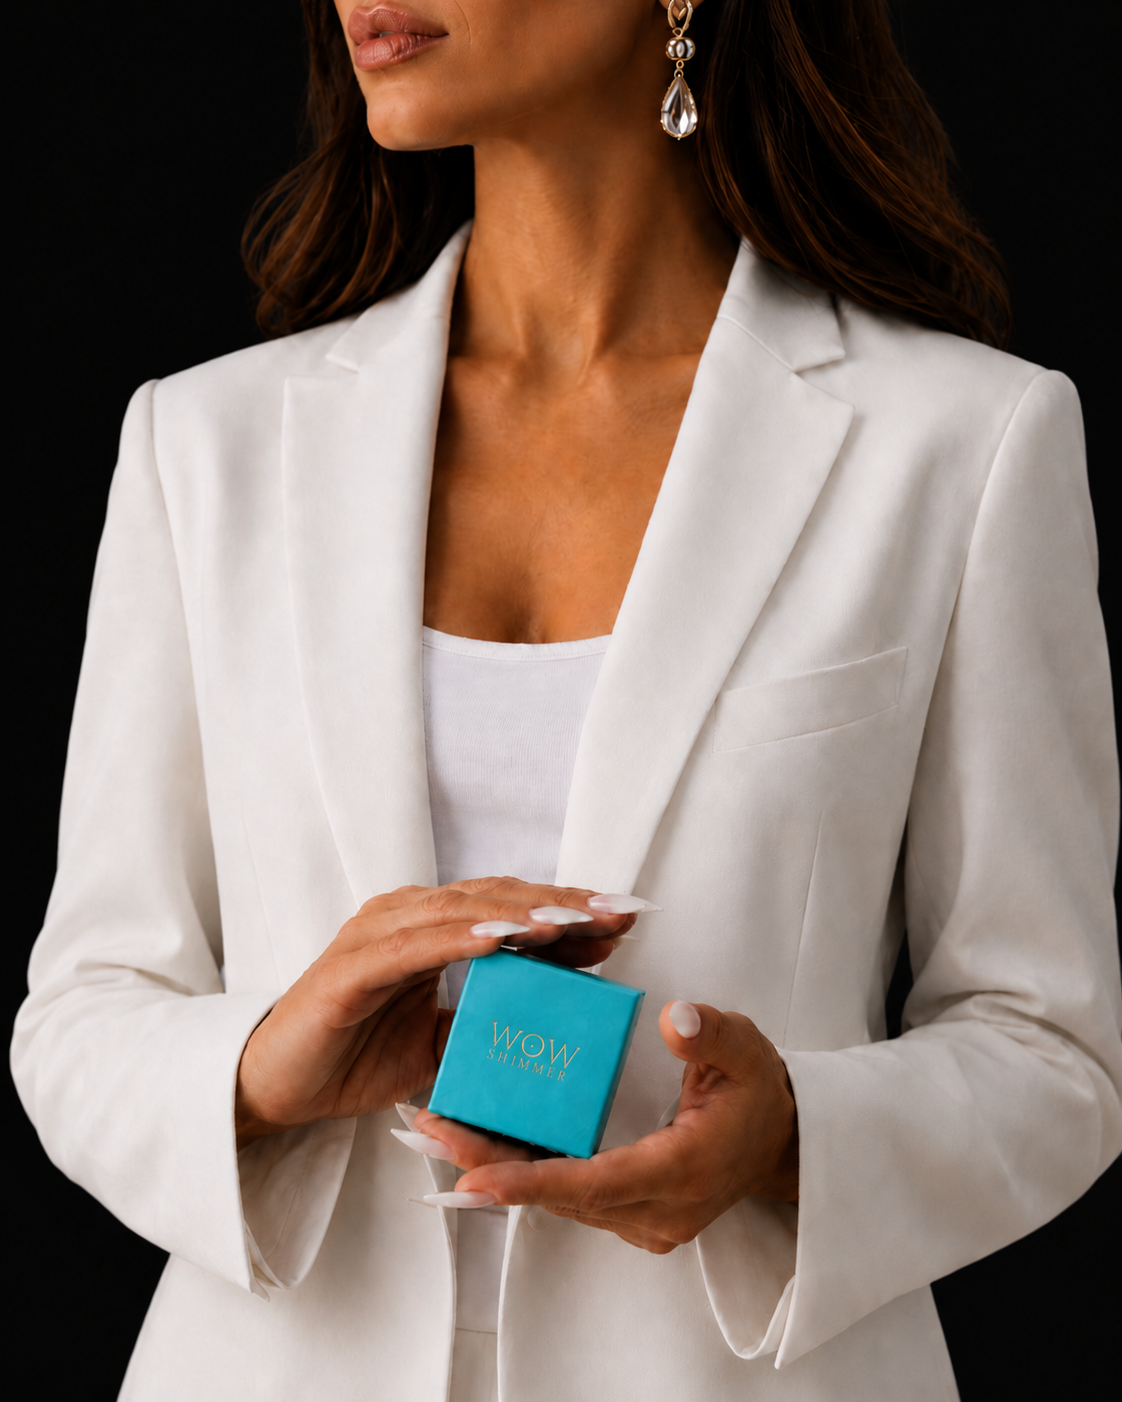
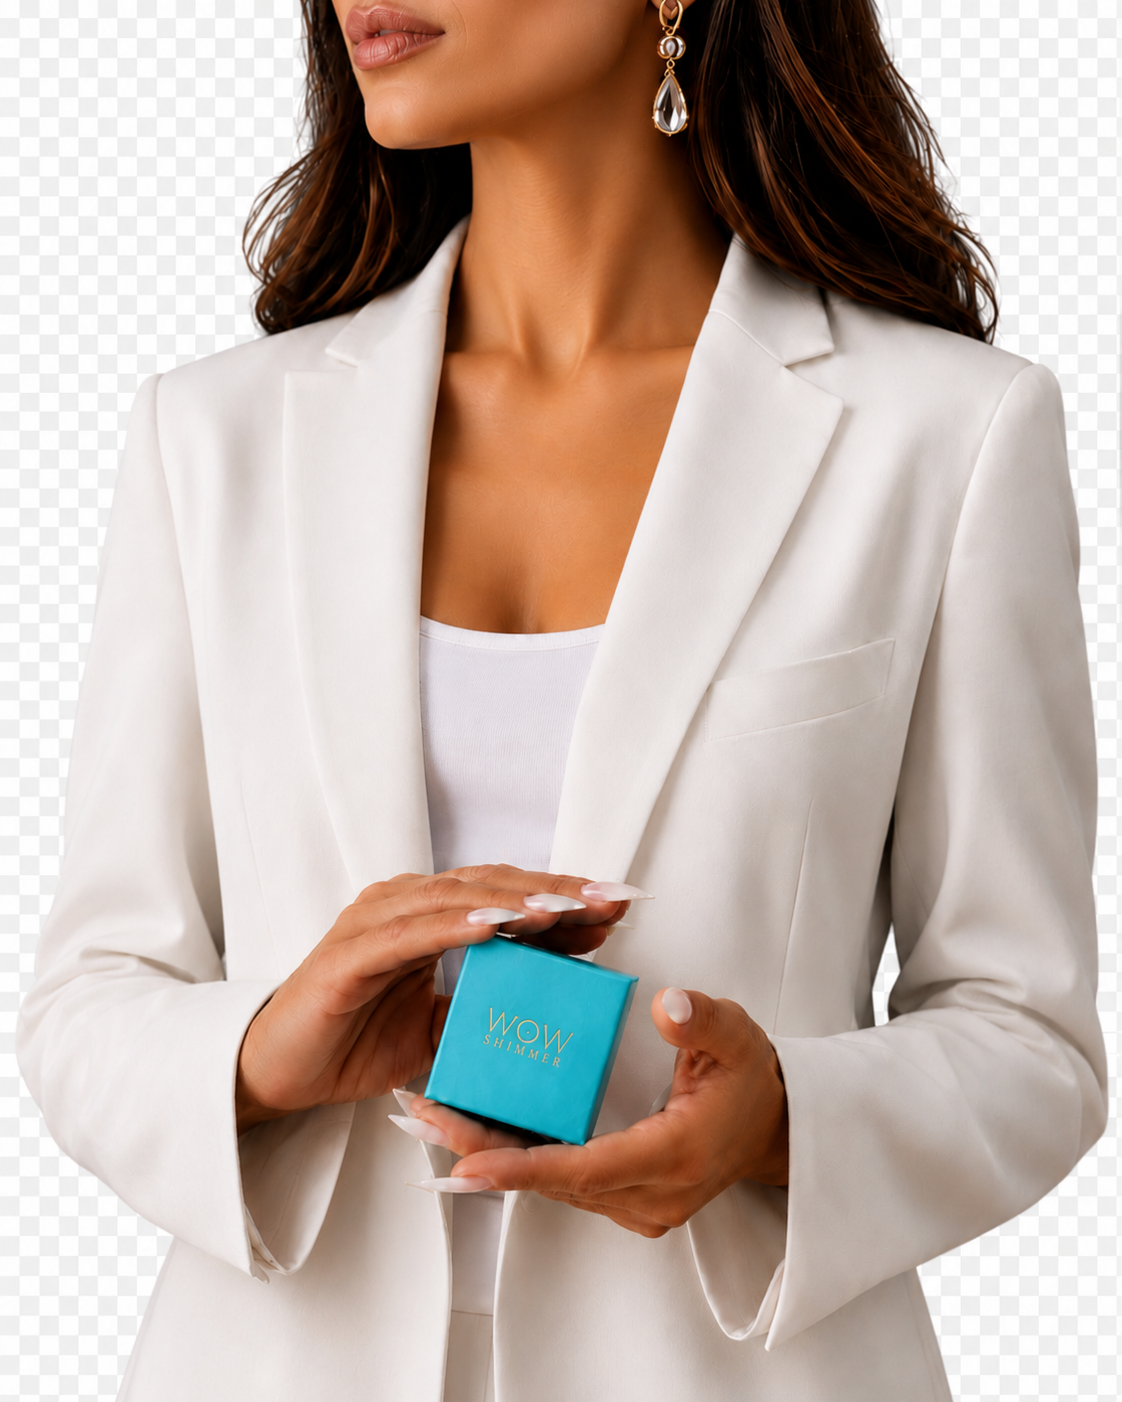
design(a): about — switch to transparent cutout photo, drop card overlap & frame

diff --git a/design/a/index.html b/design/a/index.html
@@ -757,12 +757,12 @@
   .about-photo {
     width: 100%;
     height: 100%;
-    min-height: 580px;
+    min-height: 620px;
     background-image: url('../img/obrende.png');
-    background-size: cover;
-    background-position: center;
-    background-color: #131313;
-    border-radius: 0 0 0 320px; /* скругление слева внизу — дуга под лого */
+    background-size: contain;            /* фигура полностью видна, без обрезки */
+    background-position: center bottom;
+    background-repeat: no-repeat;
+    background-color: transparent;       /* фон прозрачный — секция просвечивает */
   }
   .about-monogram {
     position: absolute;
@@ -784,23 +784,21 @@
     backdrop-filter: blur(4px);
   }
 
-  /* Текстовая тёмная плашка — лёгкий наезд на фото, без блюра */
+  /* Текстовая тёмная плашка — без наезда, фото-вырез сам себя кадрирует */
   .about-text {
     position: relative;
     z-index: 3;
     display: flex;
-    margin-left: -50px;              /* лёгкий наезд на фото */
   }
   .about-card {
     position: relative;
     width: 100%;
-    background: rgba(20, 20, 20, 0.86);
+    background: var(--ink-2);
     border: 1px solid rgba(255,255,255,0.10);
     padding: 60px 56px 56px;
     display: flex;
     flex-direction: column;
     justify-content: center;
-    box-shadow: -24px 0 60px rgba(0,0,0,0.45);
   }
 
   /* Eyebrow «О БРЕНДЕ ─── ✦» — длинная линия + звёздочка справа */
